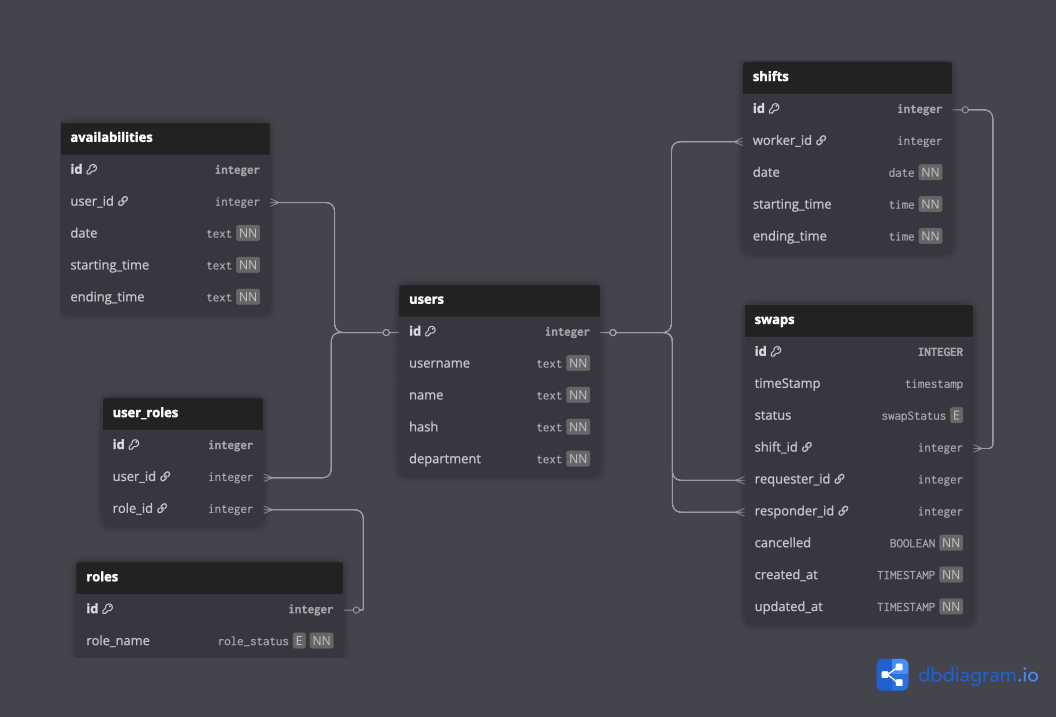
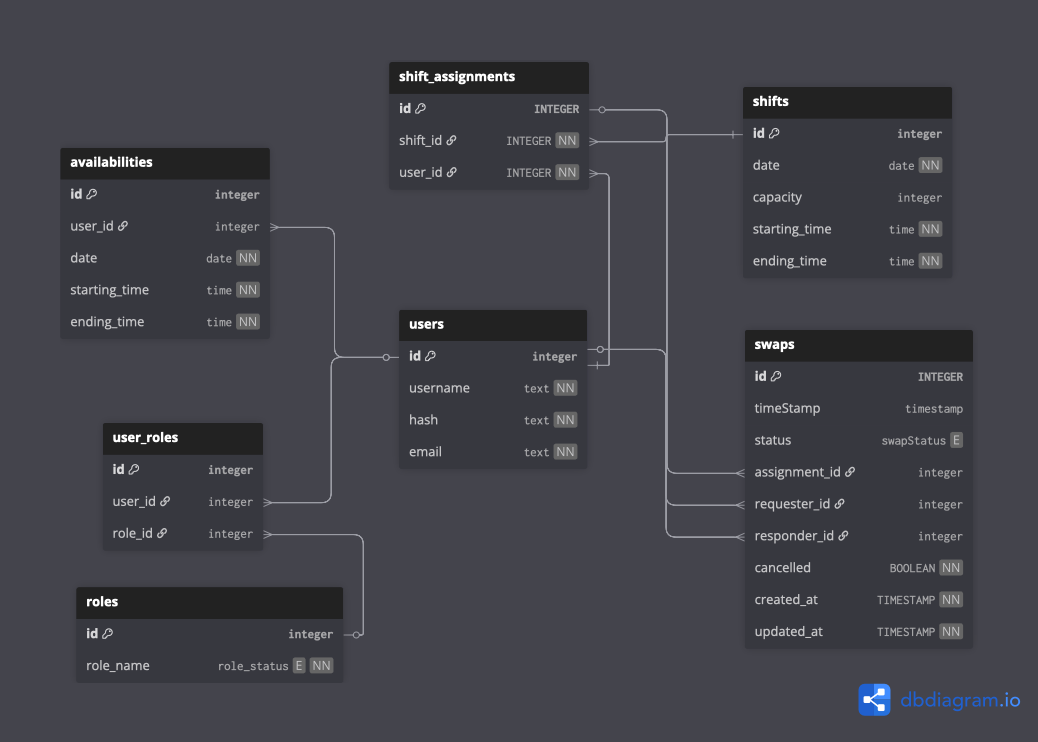
create schema, first api

diff --git a/backend/migrations/versions/90c2cc4de4fb_change_start_time_end_time_to_time.py b/backend/migrations/versions/90c2cc4de4fb_change_start_time_end_time_to_time.py
@@ -1,0 +1,60 @@
+"""Change start_time/end_time to Time
+
+Revision ID: 90c2cc4de4fb
+Revises: e45977462f18
+Create Date: 2025-08-10 22:33:46.916677
+
+"""
+from alembic import op
+import sqlalchemy as sa
+from sqlalchemy.dialects import postgresql
+
+# revision identifiers, used by Alembic.
+revision = '90c2cc4de4fb'
+down_revision = 'e45977462f18'
+branch_labels = None
+depends_on = None
+
+
+def upgrade():
+    # ### commands auto generated by Alembic - please adjust! ###
+    with op.batch_alter_table('shifts', schema=None) as batch_op:
+        batch_op.alter_column('start_time',
+               existing_type=postgresql.TIMESTAMP(),
+               type_=sa.Time(),
+               existing_nullable=False)
+        batch_op.alter_column('end_time',
+               existing_type=postgresql.TIMESTAMP(),
+               type_=sa.Time(),
+               existing_nullable=False)
+        batch_op.create_index('ix_shift_date', ['date'], unique=False)
+
+    with op.batch_alter_table('user_roles', schema=None) as batch_op:
+        batch_op.drop_constraint(batch_op.f('user_roles_user_id_fkey'), type_='foreignkey')
+        batch_op.drop_constraint(batch_op.f('user_roles_role_id_fkey'), type_='foreignkey')
+        batch_op.create_foreign_key(None, 'users', ['user_id'], ['id'])
+        batch_op.create_foreign_key(None, 'roles', ['role_id'], ['id'])
+
+    # ### end Alembic commands ###
+
+
+def downgrade():
+    # ### commands auto generated by Alembic - please adjust! ###
+    with op.batch_alter_table('user_roles', schema=None) as batch_op:
+        batch_op.drop_constraint(None, type_='foreignkey')
+        batch_op.drop_constraint(None, type_='foreignkey')
+        batch_op.create_foreign_key(batch_op.f('user_roles_role_id_fkey'), 'roles', ['role_id'], ['id'], ondelete='CASCADE')
+        batch_op.create_foreign_key(batch_op.f('user_roles_user_id_fkey'), 'users', ['user_id'], ['id'], ondelete='CASCADE')
+
+    with op.batch_alter_table('shifts', schema=None) as batch_op:
+        batch_op.drop_index('ix_shift_date')
+        batch_op.alter_column('end_time',
+               existing_type=sa.Time(),
+               type_=postgresql.TIMESTAMP(),
+               existing_nullable=False)
+        batch_op.alter_column('start_time',
+               existing_type=sa.Time(),
+               type_=postgresql.TIMESTAMP(),
+               existing_nullable=False)
+
+    # ### end Alembic commands ###

diff --git a/backend/app/tests/test_db_structure.py b/backend/app/tests/test_db_structure.py
@@ -1,0 +1,52 @@
+from sqlalchemy import inspect
+from app.extensions import db
+import pytest
+from sqlalchemy.exc import IntegrityError
+
+
+@pytest.fixture
+def inspector(test_app):
+    return inspect(db.engine)
+
+
+def test_tables_exist(inspector):
+    tables = inspector.get_table_names()
+    assert "users" in tables
+    assert "roles" in tables
+    assert "shifts" in tables
+    assert "availabilities" in tables
+    assert "swaps" in tables
+
+ 
+def test_user_role_primary_key(inspector):
+    pk = inspector.get_pk_constraint("user_roles")
+    assert set(pk['constrained_columns']) == {"user_id", "role_id"}
+
+
+def test_shift_assignments_user_set_null_on_delete(test_app):
+    from app.models import ShiftAssignment, User, Shift
+    import datetime
+    with test_app.app_context():
+        # Create a user and a shift assignment
+        user = User(username="testuser", email="test@test.com", hash="hash_password", active=True)
+        shift = Shift(
+            date=datetime.date(2025, 8, 10),
+            start_time=datetime.time(9, 0), 
+            end_time=datetime.time(17, 0),
+            capacity=5
+        )
+        db.session.add(user)
+        db.session.add(shift)
+        db.session.commit()
+
+        shift_assignment = ShiftAssignment(user_id=user.id, shift_id=shift.id)
+        db.session.add(shift_assignment)
+        db.session.commit()
+
+
+        db.session.delete(user)
+        db.session.commit()
+
+
+        assignments = ShiftAssignment.query.all()
+        assert all(sa.user_id is None for sa in assignments)

diff --git a/backend/app/models/shift.py b/backend/app/models/shift.py
@@ -5,16 +5,16 @@ class Shift(db.Model):
     __tablename__ = 'shifts'
     id = db.Column(db.Integer, primary_key=True)
     date = db.Column(db.Date, nullable=False)
-    start_time = db.Column(db.DateTime, nullable=False)
-    end_time = db.Column(db.DateTime, nullable=False)
+    start_time = db.Column(db.Time, nullable=False)   # 只存 hh:mm
+    end_time = db.Column(db.Time, nullable=False)     # 只存 hh:mm
     capacity = db.Column(db.Integer, nullable=False)
 
     __table_args__ = (
         UniqueConstraint('date', 'start_time', 'end_time', name='uq_shift_time'),
+        db.Index('ix_shift_date', 'date'),
     )
 
-    assignments = db.relationship('ShiftAssignment', back_populates='shift') 
-    db.Index('ix_shift_date', 'date') 
+    assignments = db.relationship('ShiftAssignment', back_populates='shift')
 
     def __repr__(self):
-        return f'<Shift {self.id} from {self.start_time} to {self.end_time} has capacity {self.capacity}>'
+        return f'<Shift {self.id} {self.date} {self.start_time}-{self.end_time} cap={self.capacity}>'

diff --git a/backend/app/api/user_routes.py b/backend/app/api/user_routes.py
@@ -1,0 +1,32 @@
+from flask import Blueprint, jsonify, request
+from sqlalchemy.exc import IntegrityError
+from app.extensions import db
+from app import models
+from app.schemas.user import UserCreateSchema, UserOutSchema
+
+user_bp = Blueprint("users", __name__, url_prefix="/api/users")
+
+
+@user_bp.route('/ping')
+def ping():
+    return jsonify({'message': 'ping'})
+
+@user_bp.post("")
+def create_user():
+    payload = request.get_json() or {}
+    data = UserCreateSchema().load(payload)
+
+    u = models.User(**data)
+    db.session.add(u)
+    try:
+        db.session.commit()
+    except IntegrityError:
+        #「全部還原，不要這次的資料庫變更」
+        db.session.rollback()
+        return jsonify({"error": "User already exists"}), 400
+    
+    return jsonify(UserOutSchema().dump(u)), 201
+
+
+
+

diff --git a/backend/app/__init__.py b/backend/app/__init__.py
@@ -1,18 +1,24 @@
 from flask import Flask
 from .config import Config
-from flask_migrate import Migrate
-from .models import db  
+from .extensions import db, migrate
+from .models import db 
+from flask_cors import CORS 
 
-migrate = Migrate()  
 
-def create_app():
+
+def create_app(config_object=None):
     app = Flask(__name__)
-    app.config.from_object(Config)
+    CORS(app) 
+
+    if config_object:
+        app.config.from_object(config_object)
+    else: 
+        app.config.from_object(Config)
 
     db.init_app(app) 
     migrate.init_app(app, db)  
 
-    from .routes.user_routes import user_bp
+    from .api.user_routes import user_bp
     app.register_blueprint(user_bp, url_prefix='/api/users')
 
 

diff --git a/backend/app/models/user.py b/backend/app/models/user.py
@@ -2,8 +2,8 @@ from app.extensions import db
 
 user_roles = db.Table(
     'user_roles',
-    db.Column('user_id', db.Integer, db.ForeignKey('users.id', ondelete='CASCADE'), primary_key=True),
-    db.Column('role_id', db.Integer, db.ForeignKey('roles.id', ondelete='CASCADE'), primary_key=True)
+    db.Column('user_id', db.Integer, db.ForeignKey('users.id'), primary_key=True),
+    db.Column('role_id', db.Integer, db.ForeignKey('roles.id'), primary_key=True)
 )
 
 class User(db.Model):

diff --git a/backend/app/schemas/user.py b/backend/app/schemas/user.py
@@ -1,0 +1,13 @@
+from marshmallow import Schema, fields, validate
+
+class UserCreateSchema(Schema):
+
+    username = fields.String(required=True)
+    email = fields.Email(required=True)
+    hash = fields.String(required=True, validate=validate.Length(min=8))
+
+class UserOutchema(Schema):
+    id = fields.Integer()
+    username = fields.String()
+    email = fields.Email()
+    active = fields.Boolean()

diff --git a/backend/app/tests/conftest.py b/backend/app/tests/conftest.py
@@ -1,0 +1,15 @@
+import pytest
+from app import create_app
+from app.extensions import db
+from app.config_test import TestConfig
+from flask_migrate import upgrade
+
+@pytest.fixture()
+def test_app():
+    app = create_app(TestConfig)
+
+    with app.app_context():
+        upgrade()
+        yield app
+
+        db.session.remove()

diff --git a/backend/app/models/shift_assignments.py b/backend/app/models/shift_assignments.py
@@ -15,4 +15,4 @@ class ShiftAssignment(db.Model):
     )
 
     user  = db.relationship('User', back_populates='shift_assignments', passive_deletes=True)
-    shift = db.relationship('Shift', back_populates='shift_assignments')
+    shift = db.relationship('Shift', back_populates='assignments')

diff --git a/backend/run.py b/backend/run.py
@@ -1,10 +1,12 @@
 from app import create_app
 from app.extensions import db
+from dotenv import load_dotenv
+load_dotenv()
 
 app = create_app()
 with app.app_context():
     db.create_all()
 
 if __name__ == '__main__':
-    app.run(debug=True)
+   app.run(port=5050, debug=True)
 

diff --git a/backend/app/config_test.py b/backend/app/config_test.py
@@ -1,0 +1,8 @@
+import os
+from dotenv import load_dotenv
+
+load_dotenv()  
+class TestConfig:
+    TESTING = True
+    SQLALCHEMY_DATABASE_URI = os.getenv("TEST_DATABASE_URL")
+    SQLALCHEMY_TRACK_MODIFICATIONS = False

diff --git a/backend/app/extensions.py b/backend/app/extensions.py
@@ -1,3 +1,5 @@
 from flask_sqlalchemy import SQLAlchemy
+from flask_migrate import Migrate
 
 db = SQLAlchemy()
+migrate = Migrate()  
